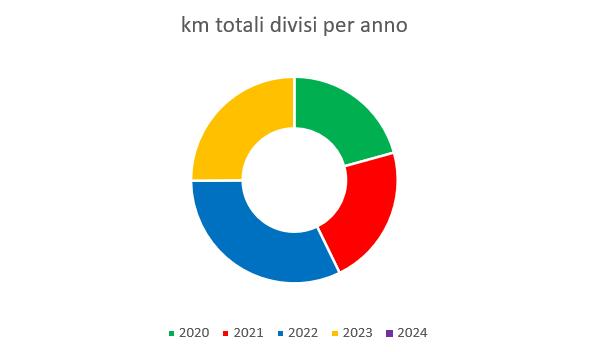
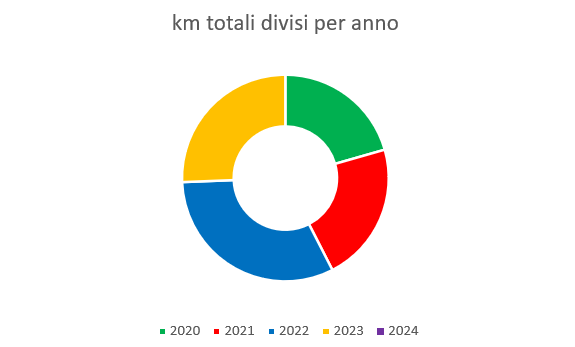
C

diff --git a/Statistiche/Statistiche2023.html b/Statistiche/Statistiche2023.html
@@ -49,61 +49,61 @@
         <tr>
             <td>Gennaio</td>
             <td>127</td>
-            <td>4,27 %</td>
+            <td>4,15 %</td>
         </tr>
 
         <tr>
             <td>Febbraio</td>
             <td>148</td>
-            <td>4,98 %</td>
+            <td>4,84 %</td>
         </tr>
 
         <tr>
             <td>Marzo</td>
             <td>194</td>
-            <td>6,52 %</td>
+            <td>6,34 %</td>
         </tr>
 
         <tr>
             <td>Aprile</td>
             <td>103</td>
-            <td>3,46 %</td>
+            <td>3,37 %</td>
         </tr>
 
         <tr>
             <td>Maggio</td>
             <td>242</td>
-            <td>8,14 %</td>
+            <td>7,91 %</td>
         </tr>
 
         <tr>
             <td>Giugno</td>
             <td>265</td>
-            <td>8,91 %</td>
+            <td>8,65 %</td>
         </tr>
 
         <tr>
             <td>Luglio</td>
             <td>422</td>
-            <td>14,19 %</td>
+            <td>14,38 %</td>
         </tr>
 
         <tr>
             <td>Agosto</td>
             <td>426</td>
-            <td>14,32 %</td>
+            <td>13,93 %</td>
         </tr>
 
         <tr>
             <td>Settembre</td>
             <td>712</td>
-            <td>23,94 %</td>
+            <td>23,28 %</td>
         </tr>
 
         <tr>
             <td>Ottobre</td>
-            <td>335</td>
-            <td>11,26 %</td>
+            <td>420</td>
+            <td>13,73 %</td>
         </tr>
 
     </table>
@@ -112,10 +112,10 @@
     <img class="immagine" src="Immagini/Statistiche 2023.png">
     <br>
     <div class="colore">
-        <p>totale km 2.974
+        <p>totale km 3.059
             <img src="../Icone/traguardo.png">
         </p>
-        <p>km medi percorsi 63,28</p>
+        <p>km medi percorsi 63,73</p>
     </div>
     <br>
 

diff --git a/Statistiche.html b/Statistiche.html
@@ -66,7 +66,7 @@
             </p>
 
             <p> km totali <img src="Icone/traguardo.png"> 2.456</p>
-            <p> 20,70 %</p>
+            <p> 20,60 %</p>
         </a>
     </div>
 
@@ -77,7 +77,7 @@
             </p>
 
             <p> km totali <img src="Icone/traguardo.png"> 2.614</p>
-            <p> 22,10 %</p>
+            <p> 19,70 %</p>
         </a>
     </div>
 
@@ -88,7 +88,7 @@
             </p>
 
             <p> km totali <img src="Icone/traguardo.png"> 3.808</p>
-            <p> 32,10 %</p>
+            <p> 31,70 %</p>
         </a>
     </div>
 
@@ -98,8 +98,8 @@
                 Statistiche 2023
             </p>
 
-            <p> km totali <img src="Icone/traguardo.png"> 2.974</p>
-            <p> 25,10 %</p>
+            <p> km totali <img src="Icone/traguardo.png"> 3.097</p>
+            <p> 25,60 %</p>
         </a>
     </div>
 
@@ -120,11 +120,11 @@
 
     <div class="colore">
         <p>
-            totale km fatti 11.852
+            totale km fatti 11.971
             <img src="Icone/traguardo.png">
         </p>
 
-        <p>km medi percorsi 69,31 </p>
+        <p>km medi percorsi 69,40 </p>
 
     </div>
 

diff --git a/Autunno_Inverno/Autunno_Inverno2023-2024.html b/Autunno_Inverno/Autunno_Inverno2023-2024.html
@@ -97,14 +97,23 @@
             <td>km</td>
         </tr>
 
+        <tr>
+            <td>29 ottobre</td>
+            <td>6</td>
+            <td><a href="https://www.komoot.com/it-it/tour/1362066710?ref=wtd&share_token=aXUyAkJ2klqUEhqO4gn3ejthJ7FC5J38NgsT4ddvUA60c2MYuY"
+                    target="_blank">Marano (corsa velocità)</a></td>
+            <td>81</td>
+            <td>km</td>
+        </tr>
+
     </table>
 
     <br>
     <div class="colore">
-        <p> totale km 335
+        <p> totale km 420
             <img src="../Icone/traguardo.png">
         </p>
-        <p>km medi percorsi 67,00</p>
+        <p>km medi percorsi 70,00</p>
     </div>
 </body>
 

diff --git a/Autunno_Inverno.html b/Autunno_Inverno.html
@@ -92,7 +92,7 @@
         <img class="immaginestagione" src="Icone/inverno.png">
         <a href="Autunno_Inverno/Autunno_Inverno2023-2024.html">
             <p class="titoli">Autunno - Inverno 2023/2024
-                <p>Totale km <img src="Icone/traguardo.png"> 335</p>
+                <p>Totale km <img src="Icone/traguardo.png"> 420</p>
             </p>
         </a>
     </div>

diff --git a/Giri.html b/Giri.html
@@ -238,12 +238,12 @@
     <a href="Statistiche.html">
         <div class="colore">
             <p>
-                totale km fatti 11.852
+                totale km fatti 11.971
                 <img src="Icone/traguardo.png">
             </p>
-
-            <p>km medi percorsi 69,31 </p>
-
+    
+            <p>km medi percorsi 69,40 </p>
+    
         </div>
     </a>
 
